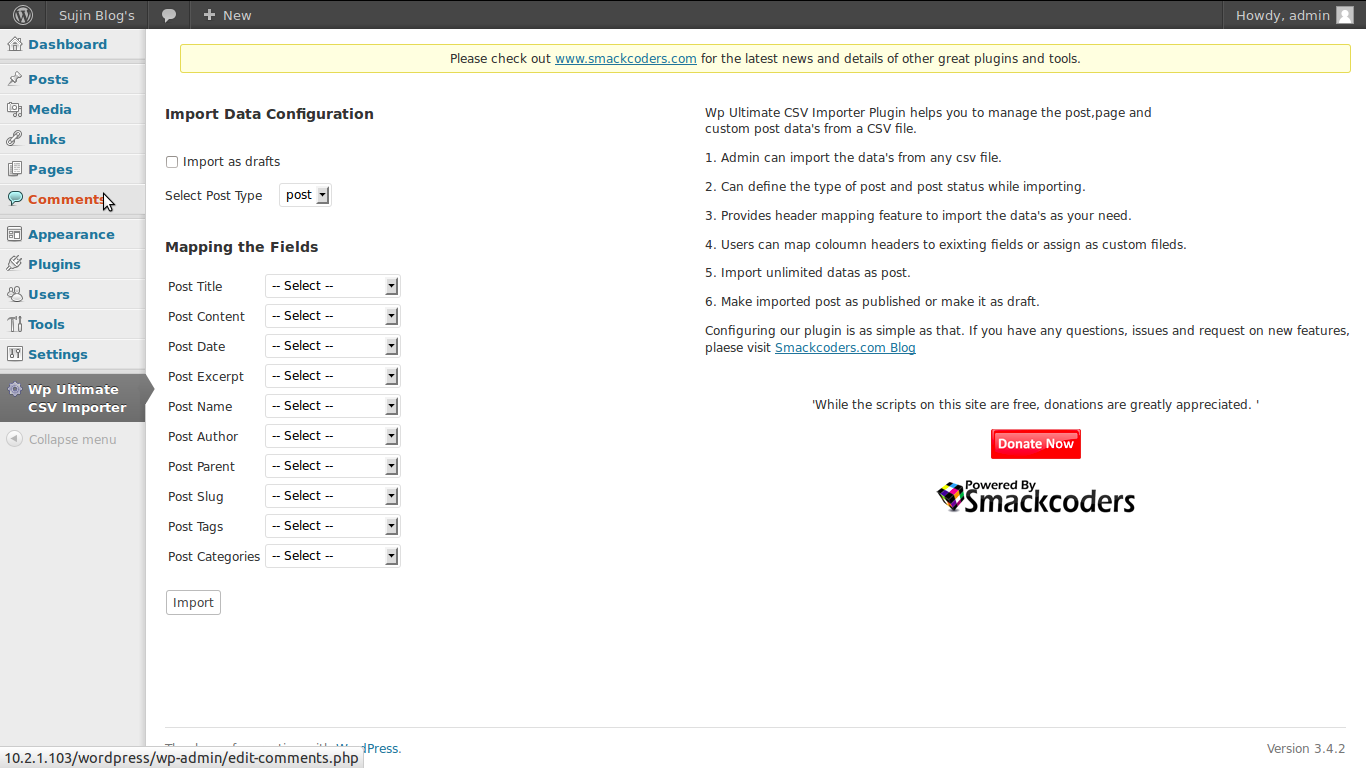
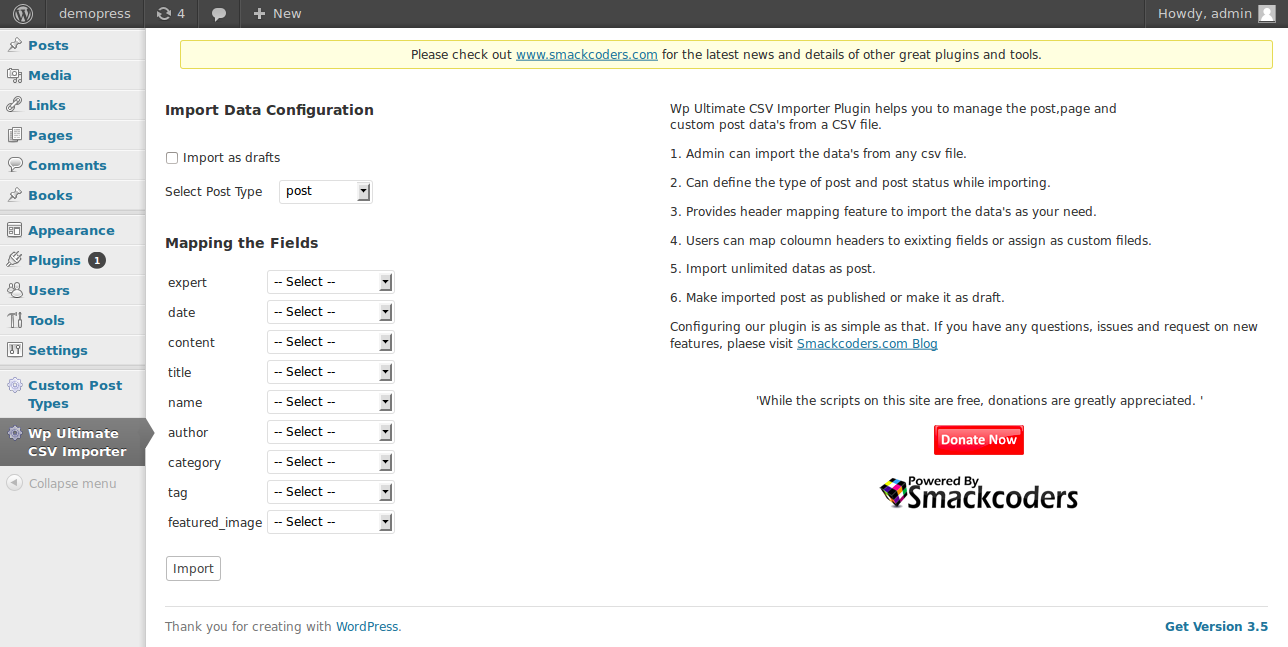
version 1.1.1 changes
git-svn-id: https://plugins.svn.wordpress.org/wp-ultimate-csv-importer/trunk@639075 b8457f37-d9ea-0310-8a92-e5e31aec5664

diff --git a/wp_ultimate_csv_importer.php b/wp_ultimate_csv_importer.php
@@ -3,7 +3,7 @@
 *Plugin Name: Wp Ultimate CSV Importer
 *Plugin URI: http://www.smackcoders.com/category/free-wordpress-plugins.html
 *Description: A plugin that helps to import the data's from a CSV file.
-*Version: 1.1.0
+*Version: 1.1.1
 *Author: smackcoders.com
 *Author URI: http://www.smackcoders.com
 *
@@ -27,6 +27,7 @@
 ***********************************************************************************************
 */
 
+@ini_set( 'display_errors', false );
 
 // Global variable declaration
 global $data_rows;
@@ -48,16 +49,16 @@ $keys = $wpdb->get_col( "
         ORDER BY meta_key
         LIMIT $limit" );
 // Default header array
-// Code modified at version 1.1.0 by fredrick
+// Code modified at version 1.1.1 by fredrick
 $defaults = array(
         'post_title'      => null,
         'post_content'    => null,
         'post_excerpt'    => null,
         'post_date'       => null,
         'post_tag'        => null,
-        'category'	  => null,
+        'post_category'	  => null,
         'post_author'     => null,
-	'attachment'	  => null,
+	'featured_image'  => null,
         'post_parent'     => 0,
     );
 foreach($keys as $val){
@@ -95,7 +96,7 @@ function description(){
 </p>
 <p>Configuring our plugin is as simple as that. If you have any questions, issues and request on new features, plaese visit <a href='http://www.smackcoders.com/category/free-wordpress-plugins.html' target='_blank'>Smackcoders.com Blog </a></p>
 
-	<div align='center' style='margin-top:40px;'> 'While the scripts on this site are free, donations are greatly appreciated. '<br/><br/><a href='https://www.paypal.com/cgi-bin/webscr?cmd=_donations&business=fenzik@gmail.com&lc=JP&item_name=WordPress%20Plugins&item_number=wp%2dplugins&currency_code=USD&bn=PP%2dDonationsBF%3abtn_donate_SM%2egif%3aNonHosted' target='_blank'><img src='".site_url()."/wp-content/plugins/wp-ultimate-csv-importer/images/paypal_donate_button.png' /></a><br/><br/><a href='http://www.smackcoders.com/' target='_blank'><img src='http://www.smackcoders.com/wp-content/uploads/2012/09/Smack_poweredby_200.png'></a>
+	<div align='center' style='margin-top:40px;'> 'While the scripts on this site are free, donations are greatly appreciated. '<br/><br/><a href='http://www.smackcoders.com/donate.html' target='_blank'><img src='".site_url()."/wp-content/plugins/wp-ultimate-csv-importer/images/paypal_donate_button.png' /></a><br/><br/><a href='http://www.smackcoders.com/' target='_blank'><img src='http://www.smackcoders.com/wp-content/uploads/2012/09/Smack_poweredby_200.png'></a>
 	</div><br/>";
 	return $string;
 }
@@ -170,7 +171,7 @@ function upload_csv_file()
 				<?php
 				$post_types=get_post_types();
 				      foreach($post_types as $key => $value){
-					if(($value!='attachment') && ($value!='revision') && ($value!='nav_menu_item')){ ?>
+					if(($value!='featured_image') && ($value!='revision') && ($value!='nav_menu_item')){ ?>
 					<option id="<?php echo($value);?>" name="<?php echo($value);?>"> <?php echo($value);?> </option>
 				<?php   }
 				      }
@@ -266,7 +267,7 @@ function upload_csv_file()
 			   }
 			}
 			foreach($new_post as $ckey => $cval){
-			   if($ckey!='category' && $ckey!='post_tag' && $ckey!='attachment'){ // Code modified at version 1.0.2 by fredrick
+			   if($ckey!='post_category' && $ckey!='post_tag' && $ckey!='featured_image'){ // Code modified at version 1.0.2 by fredrick
 				if(array_key_exists($ckey,$custom_array)){
 					$darray[$ckey]=$new_post[$ckey];
 				}
@@ -278,10 +279,10 @@ function upload_csv_file()
 				if($ckey == 'post_tag'){
 					$tags[$ckey]=$new_post[$ckey];
 				}
-				if($ckey == 'category'){
+				if($ckey == 'post_category'){
 					$categories[$ckey]=$new_post[$ckey];
 				}
-				if($ckey == 'attachment'){ // Code added at version 1.1.0 by fredrick
+				if($ckey == 'featured_image'){ // Code added at version 1.1.0 by fredrick
 					$file_url=$filetype[$ckey]=$new_post[$ckey];
 					$file_type = explode('.',$filetype[$ckey]);
 					$count = count($file_type);
@@ -342,7 +343,7 @@ function upload_csv_file()
 
 			// Create/Add category to post
 			if(!empty($categories)){
-				$split_line = explode('|',$categories['category']);
+				$split_line = explode('|',$categories['post_category']);
 				wp_set_object_terms($post_id, $split_line, 'category');
 
 			}  // End of code to add category
@@ -366,11 +367,13 @@ function upload_csv_file()
 		    </form>
 		</div>
 	<?php 
+// Code modified at version 1.1.1
 	// Remove CSV file
-		if(file_exists($dir.$filename)){
-			$filename = $_POST['filename'];
-			chmod("$dir"."$filename", 755);
-			fileDelete($dir,$filename); 
+$csvdir = getcwd ().'/../wp-content/plugins/wp-ultimate-csv-importer/imported_csv/';
+$CSVfile = $_POST['filename'];
+		if(file_exists($csvdir.$CSVfile)){
+			chmod("$csvdir"."$CSVfile", 755);
+			fileDelete($csvdir,$CSVfile); 
 		}
 	}
 	else
